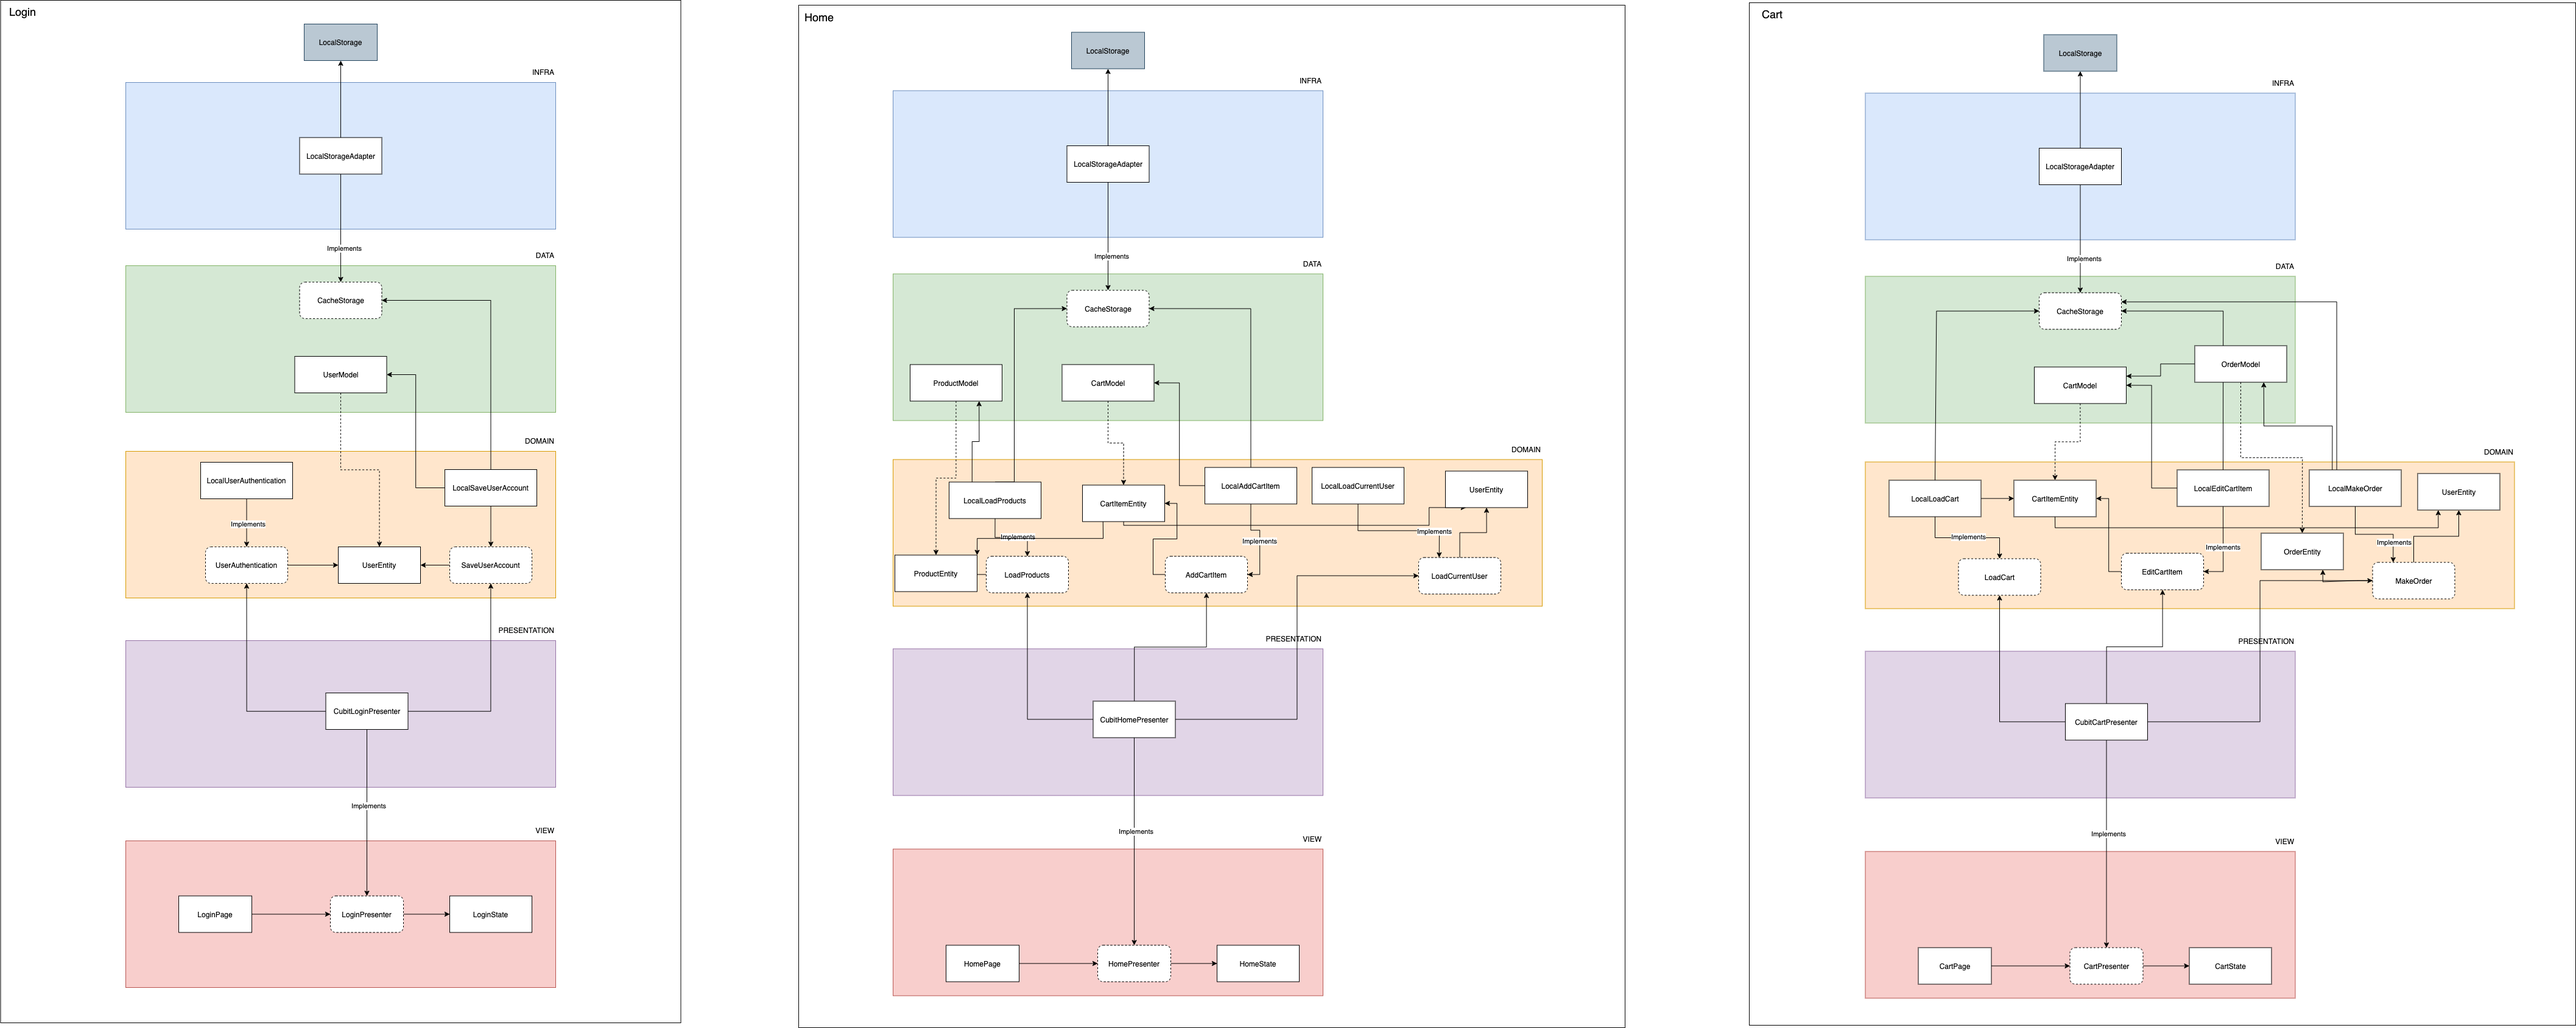
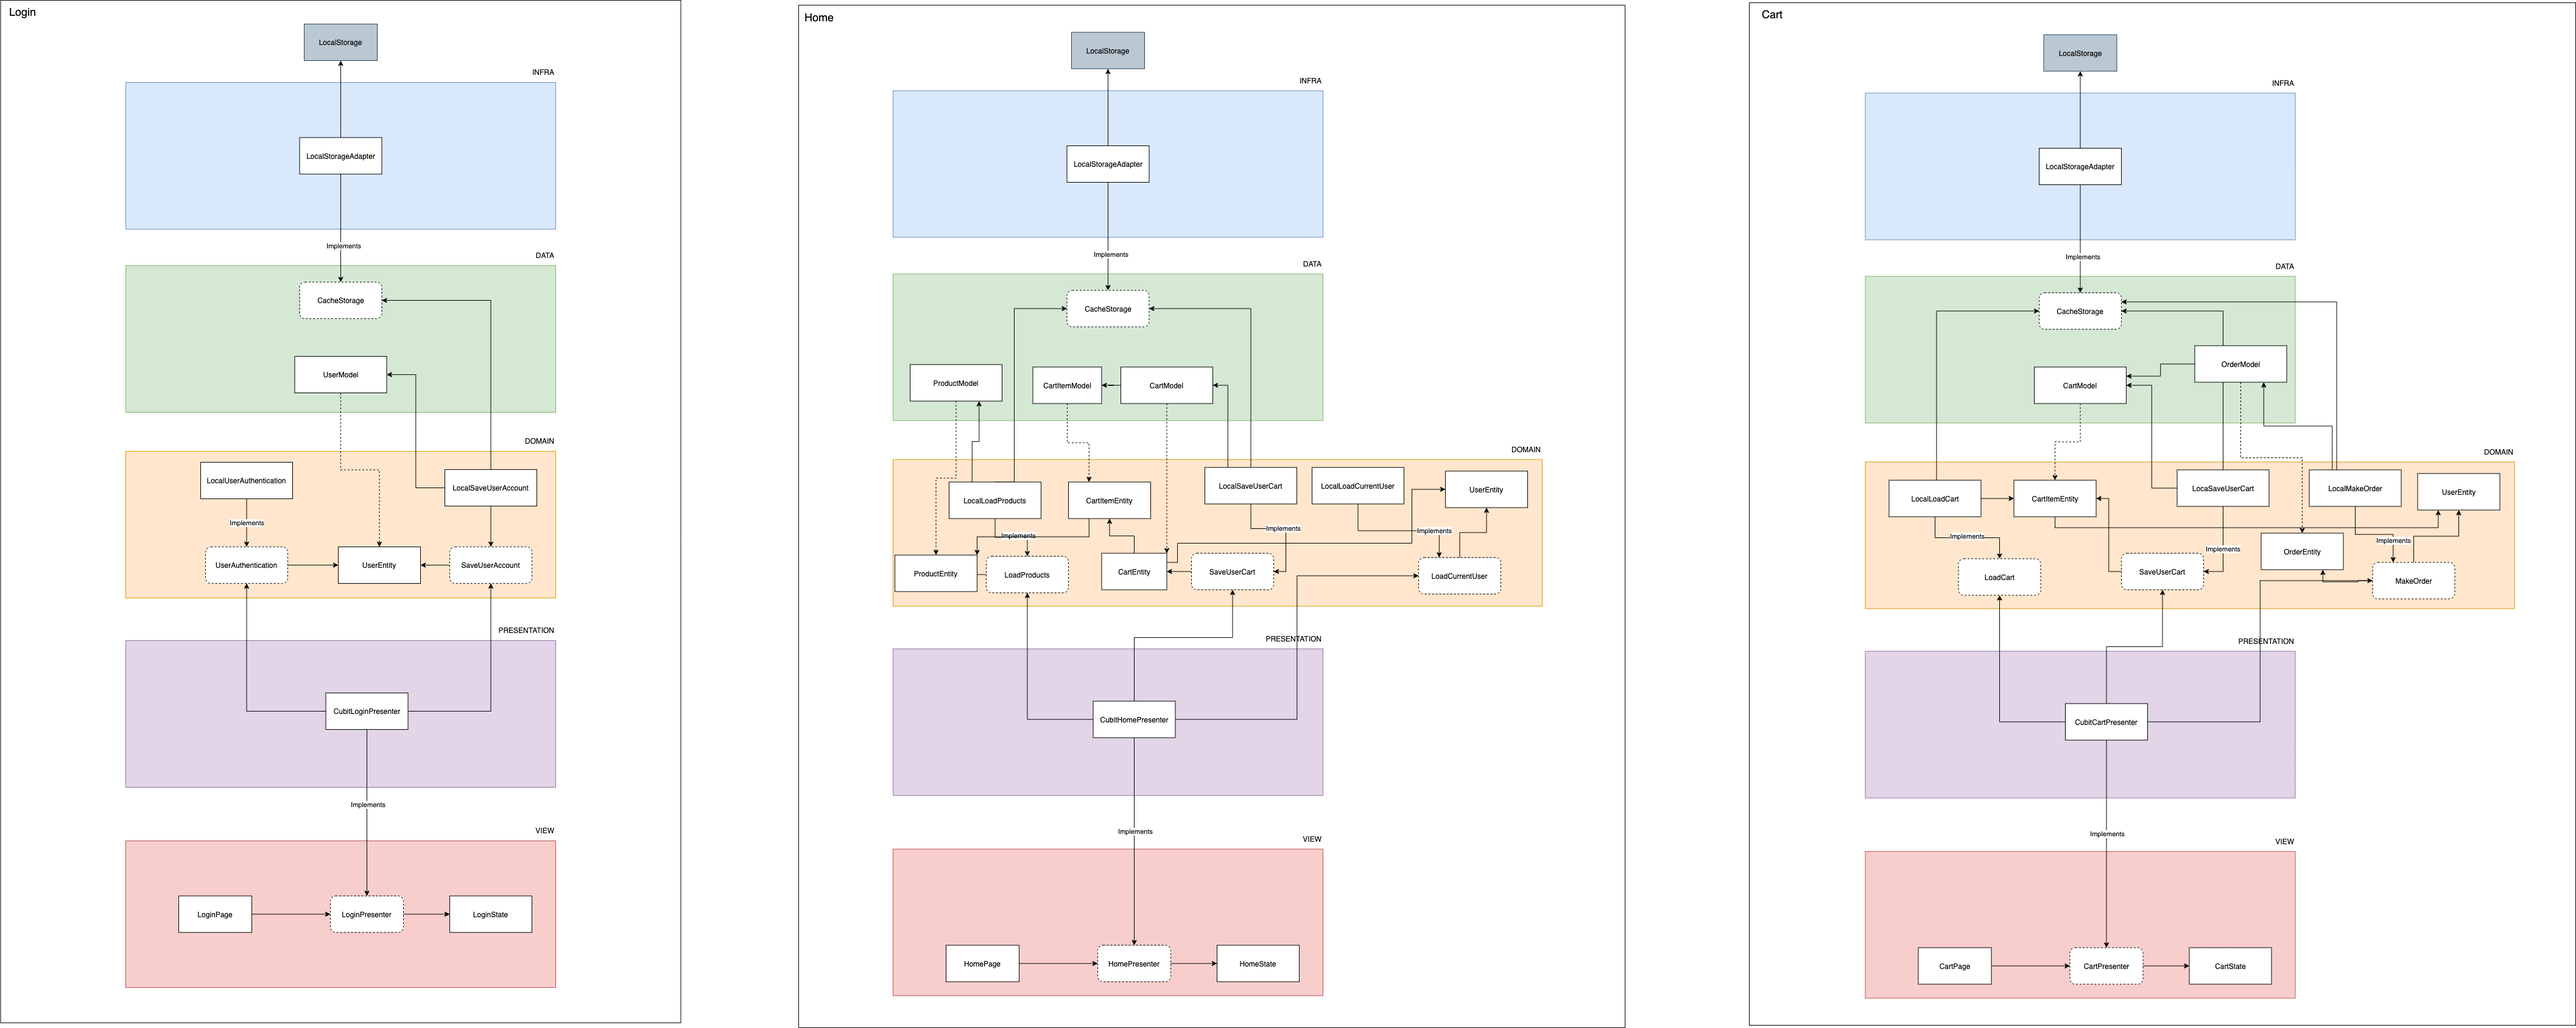
feat: CartEntity and CartItemEntity

diff --git a/test/domain/entities/cart_entity_test.dart b/test/domain/entities/cart_entity_test.dart
@@ -1,0 +1,131 @@
+import 'package:flutter_test/flutter_test.dart';
+import 'package:grocery_store_app/domain/domain.dart';
+
+import '../../utils/utils.dart';
+
+void main() {
+  test('Should return the correct total value', () async {
+    final sut = CartEntity(
+      user: makeUserEntity(),
+      items: makeCartItems(),
+    );
+
+    expect(sut.total, 8.71);
+  });
+
+  test('Should return zero if there is no items', () async {
+    final sut = CartEntity(user: makeUserEntity(), items: const []);
+
+    expect(sut.total, 0.00);
+  });
+
+  test('Should add the first item', () async {
+    List<CartItemEntity> items = [];
+    final sut = CartEntity(
+      user: makeUserEntity(),
+      items: items,
+    );
+    expect(sut.totalItems, 0);
+
+    sut.addItem(makeCartItem());
+    expect(sut.totalItems, 1);
+  });
+
+  test('Should add a new item', () async {
+    final sut = CartEntity(
+      user: makeUserEntity(),
+      items: makeCartItems(),
+    );
+
+    expect(sut.totalItems, 4);
+
+    sut.addItem(makeCartItem());
+
+    expect(sut.totalItems, 5);
+  });
+
+  test('Should throw a CartItemAlreadyExistsError if add the same item twice',
+      () async {
+    List<CartItemEntity> items = [];
+    final sut = CartEntity(
+      user: makeUserEntity(),
+      items: items,
+    );
+
+    final item = makeCartItem();
+
+    sut.addItem(item);
+
+    expect(
+      () => sut.addItem(item),
+      throwsA(const TypeMatcher<CartItemAlreadyExistsError>()),
+    );
+  });
+
+  test('Should edit an existent item', () async {
+    final item = makeCartItem(quantity: 1, price: 1);
+    final sut = CartEntity(
+      user: makeUserEntity(),
+      items: [item],
+    );
+
+    expect(sut.totalItems, 1);
+    expect(sut.total, 1.00);
+
+    sut.editItem(item.copyWith(quantity: 2));
+    expect(sut.totalItems, 1);
+    expect(sut.total, 2.00);
+  });
+
+  test('Should edit an existent item at the same position', () async {
+    final itemAtPosition1 = makeCartItem(quantity: 1, price: 1);
+
+    final sut = CartEntity(
+      user: makeUserEntity(),
+      items: [makeCartItem(), itemAtPosition1, makeCartItem()],
+    );
+
+    expect(sut.totalItems, 3);
+    expect(sut.items[1], itemAtPosition1);
+
+    final changedItemAtPosition1 = itemAtPosition1.copyWith(quantity: 2);
+    sut.editItem(changedItemAtPosition1);
+
+    expect(sut.totalItems, 3);
+    expect(sut.items[1], changedItemAtPosition1);
+  });
+
+  test('Should throw a CartItemDoesntExistsError if edit an inexistent item',
+      () async {
+    final sut = CartEntity(user: makeUserEntity(), items: [makeCartItem()]);
+
+    expect(
+      () => sut.editItem(makeCartItem()),
+      throwsA(const TypeMatcher<CartItemDoesntExistsError>()),
+    );
+  });
+
+  test('Should remove an existent item', () async {
+    final item = makeCartItem(quantity: 1, price: 1);
+
+    final sut = CartEntity(
+      user: makeUserEntity(),
+      items: [item],
+    );
+
+    sut.removeItem(item);
+
+    expect(sut.totalItems, 0);
+    expect(sut.total, 0.0);
+  });
+
+  test('Should throw a CartItemDoesntExistsError if remove an inexistent item',
+      () async {
+    final sut = CartEntity(user: makeUserEntity(), items: [makeCartItem()]);
+
+    expect(
+      () => sut.removeItem(makeCartItem()),
+      throwsA(const TypeMatcher<CartItemDoesntExistsError>()),
+    );
+  });
+}

diff --git a/lib/domain/entities/cart_entity.dart b/lib/domain/entities/cart_entity.dart
@@ -1,0 +1,65 @@
+import '../domain.dart';
+
+class CartEntity extends BaseEntity {
+  final UserEntity user;
+  final List<CartItemEntity> items;
+
+  CartEntity({
+    String? id,
+    required this.user,
+    required this.items,
+  }) : super(id);
+
+  int get totalItems => items.length;
+
+  double get total {
+    if (items.isEmpty) {
+      return 0.0;
+    }
+
+    return double.parse(
+      items
+          .map((item) => item.total)
+          .reduce((acc, total) => acc + total)
+          .toStringAsFixed(2),
+    );
+  }
+
+  bool _containsItem(CartItemEntity item) {
+    final existentItem = items.where((cartItem) => cartItem.id == item.id);
+
+    return existentItem.isNotEmpty;
+  }
+
+  int _itemIndex(CartItemEntity item) {
+    return items.indexWhere((cartItem) => cartItem.id == item.id);
+  }
+
+  void addItem(CartItemEntity item) {
+    if (_containsItem(item)) {
+      throw CartItemAlreadyExistsError();
+    }
+
+    items.add(item);
+  }
+
+  void editItem(CartItemEntity item) {
+    if (!_containsItem(item)) {
+      throw CartItemDoesntExistsError();
+    }
+
+    int currentIndex = _itemIndex(item);
+    items.replaceRange(currentIndex, currentIndex + 1, [item]);
+  }
+
+  void removeItem(CartItemEntity item) {
+    if (!_containsItem(item)) {
+      throw CartItemDoesntExistsError();
+    }
+
+    items.remove(item);
+  }
+
+  @override
+  List<Object?> get props => [id, user, items];
+}

diff --git a/test/domain/entities/cart_item_entity_test.dart b/test/domain/entities/cart_item_entity_test.dart
@@ -1,0 +1,51 @@
+import 'package:flutter_test/flutter_test.dart';
+import 'package:grocery_store_app/domain/domain.dart';
+
+import '../../utils/utils.dart';
+
+void main() {
+  test('Should return the correct total value', () async {
+    var sut = CartItemEntity(
+      product: makeProduct(2.23, type: ProductUnitType.kg),
+      quantity: 3,
+    );
+    expect(sut.total, 6.69);
+
+    sut = CartItemEntity(
+      product: makeProduct(0.01),
+      quantity: 10,
+    );
+    expect(sut.total, 0.10);
+  });
+
+  test('Should return the correct total value with empty quantity', () async {
+    final sut = CartItemEntity(
+      product: makeProduct(2.23),
+      quantity: 0,
+    );
+
+    expect(sut.total, 0.0);
+  });
+
+  test('Should return the correct total value with decimal quantity', () async {
+    final sut = CartItemEntity(
+      product: makeProduct(1.99),
+      quantity: 0.1,
+    );
+
+    expect(sut.total, 0.2);
+  });
+
+  test('Should edit the cart item quantity', () async {
+    final sut = CartItemEntity(
+      product: makeProduct(1.99),
+      quantity: 0.1,
+    );
+
+    final newSut = sut.copyWith(quantity: 1.01);
+
+    expect(newSut.total, 2.01);
+    expect(newSut.quantity, 1.01);
+    expect(newSut.product, sut.product);
+  });
+}

diff --git a/test/utils/cart_utils.dart b/test/utils/cart_utils.dart
@@ -1,0 +1,46 @@
+import 'package:faker/faker.dart';
+import 'package:grocery_store_app/domain/domain.dart';
+
+ProductEntity makeProduct(
+  double price, {
+  ProductUnitType type = ProductUnitType.unit,
+}) {
+  return ProductEntity(
+    imagePath: faker.internet.httpUrl(),
+    name: faker.lorem.word(),
+    unitType: type,
+    price: price,
+  );
+}
+
+CartItemEntity makeCartItem({
+  ProductEntity? product,
+  double quantity = 1,
+  double price = 1.00,
+}) {
+  return CartItemEntity(
+    product: product ?? makeProduct(price),
+    quantity: quantity,
+  );
+}
+
+List<CartItemEntity> makeCartItems() {
+  return [
+    CartItemEntity(
+      product: makeProduct(2.23, type: ProductUnitType.kg),
+      quantity: 3,
+    ), // R$ 6,69
+    CartItemEntity(
+      product: makeProduct(1.99),
+      quantity: 1,
+    ), // R$ 1,99
+    CartItemEntity(
+      product: makeProduct(1.99),
+      quantity: 0,
+    ), // R$ 0,00
+    CartItemEntity(
+      product: makeProduct(0.01),
+      quantity: 3,
+    ), // R$ 0,03
+  ];
+}

diff --git a/lib/domain/entities/cart_item_entity.dart b/lib/domain/entities/cart_item_entity.dart
@@ -1,0 +1,30 @@
+import '../domain.dart';
+
+class CartItemEntity extends BaseEntity {
+  final ProductEntity product;
+
+  final double quantity;
+
+  CartItemEntity({
+    String? id,
+    required this.product,
+    required this.quantity,
+  }) : super(id);
+
+  CartItemEntity copyWith({
+    required double quantity,
+  }) {
+    return CartItemEntity(
+      id: id,
+      product: product,
+      quantity: quantity,
+    );
+  }
+
+  double get total {
+    return double.parse((product.price * quantity).toStringAsFixed(2));
+  }
+
+  @override
+  List<Object?> get props => [id, product, quantity];
+}

diff --git a/lib/domain/errors/errors.dart b/lib/domain/errors/errors.dart
@@ -1,3 +1,5 @@
+export 'cart_item_already_exists_error.dart';
+export 'cart_item_doesnt_exists_error.dart';
 export 'invalid_credentials_error.dart';
 export 'load_products_error.dart';
 export 'save_user_account_error.dart';

diff --git a/lib/domain/entities/entities.dart b/lib/domain/entities/entities.dart
@@ -1,4 +1,6 @@
 export 'address_entity.dart';
 export 'base_entity.dart';
+export 'cart_entity.dart';
+export 'cart_item_entity.dart';
 export 'product_entity.dart';
 export 'user_entity.dart';

diff --git a/test/utils/utils.dart b/test/utils/utils.dart
@@ -1,2 +1,4 @@
+export 'cart_utils.dart';
 export 'load_page_utils.dart';
+export 'load_page_utils.mocks.dart';
 export 'user_entity_utils.dart';

diff --git a/lib/domain/errors/cart_item_already_exists_error.dart b/lib/domain/errors/cart_item_already_exists_error.dart
@@ -1,0 +1,1 @@
+class CartItemAlreadyExistsError implements Exception {}

diff --git a/lib/domain/errors/cart_item_doesnt_exists_error.dart b/lib/domain/errors/cart_item_doesnt_exists_error.dart
@@ -1,0 +1,1 @@
+class CartItemDoesntExistsError implements Exception {}
